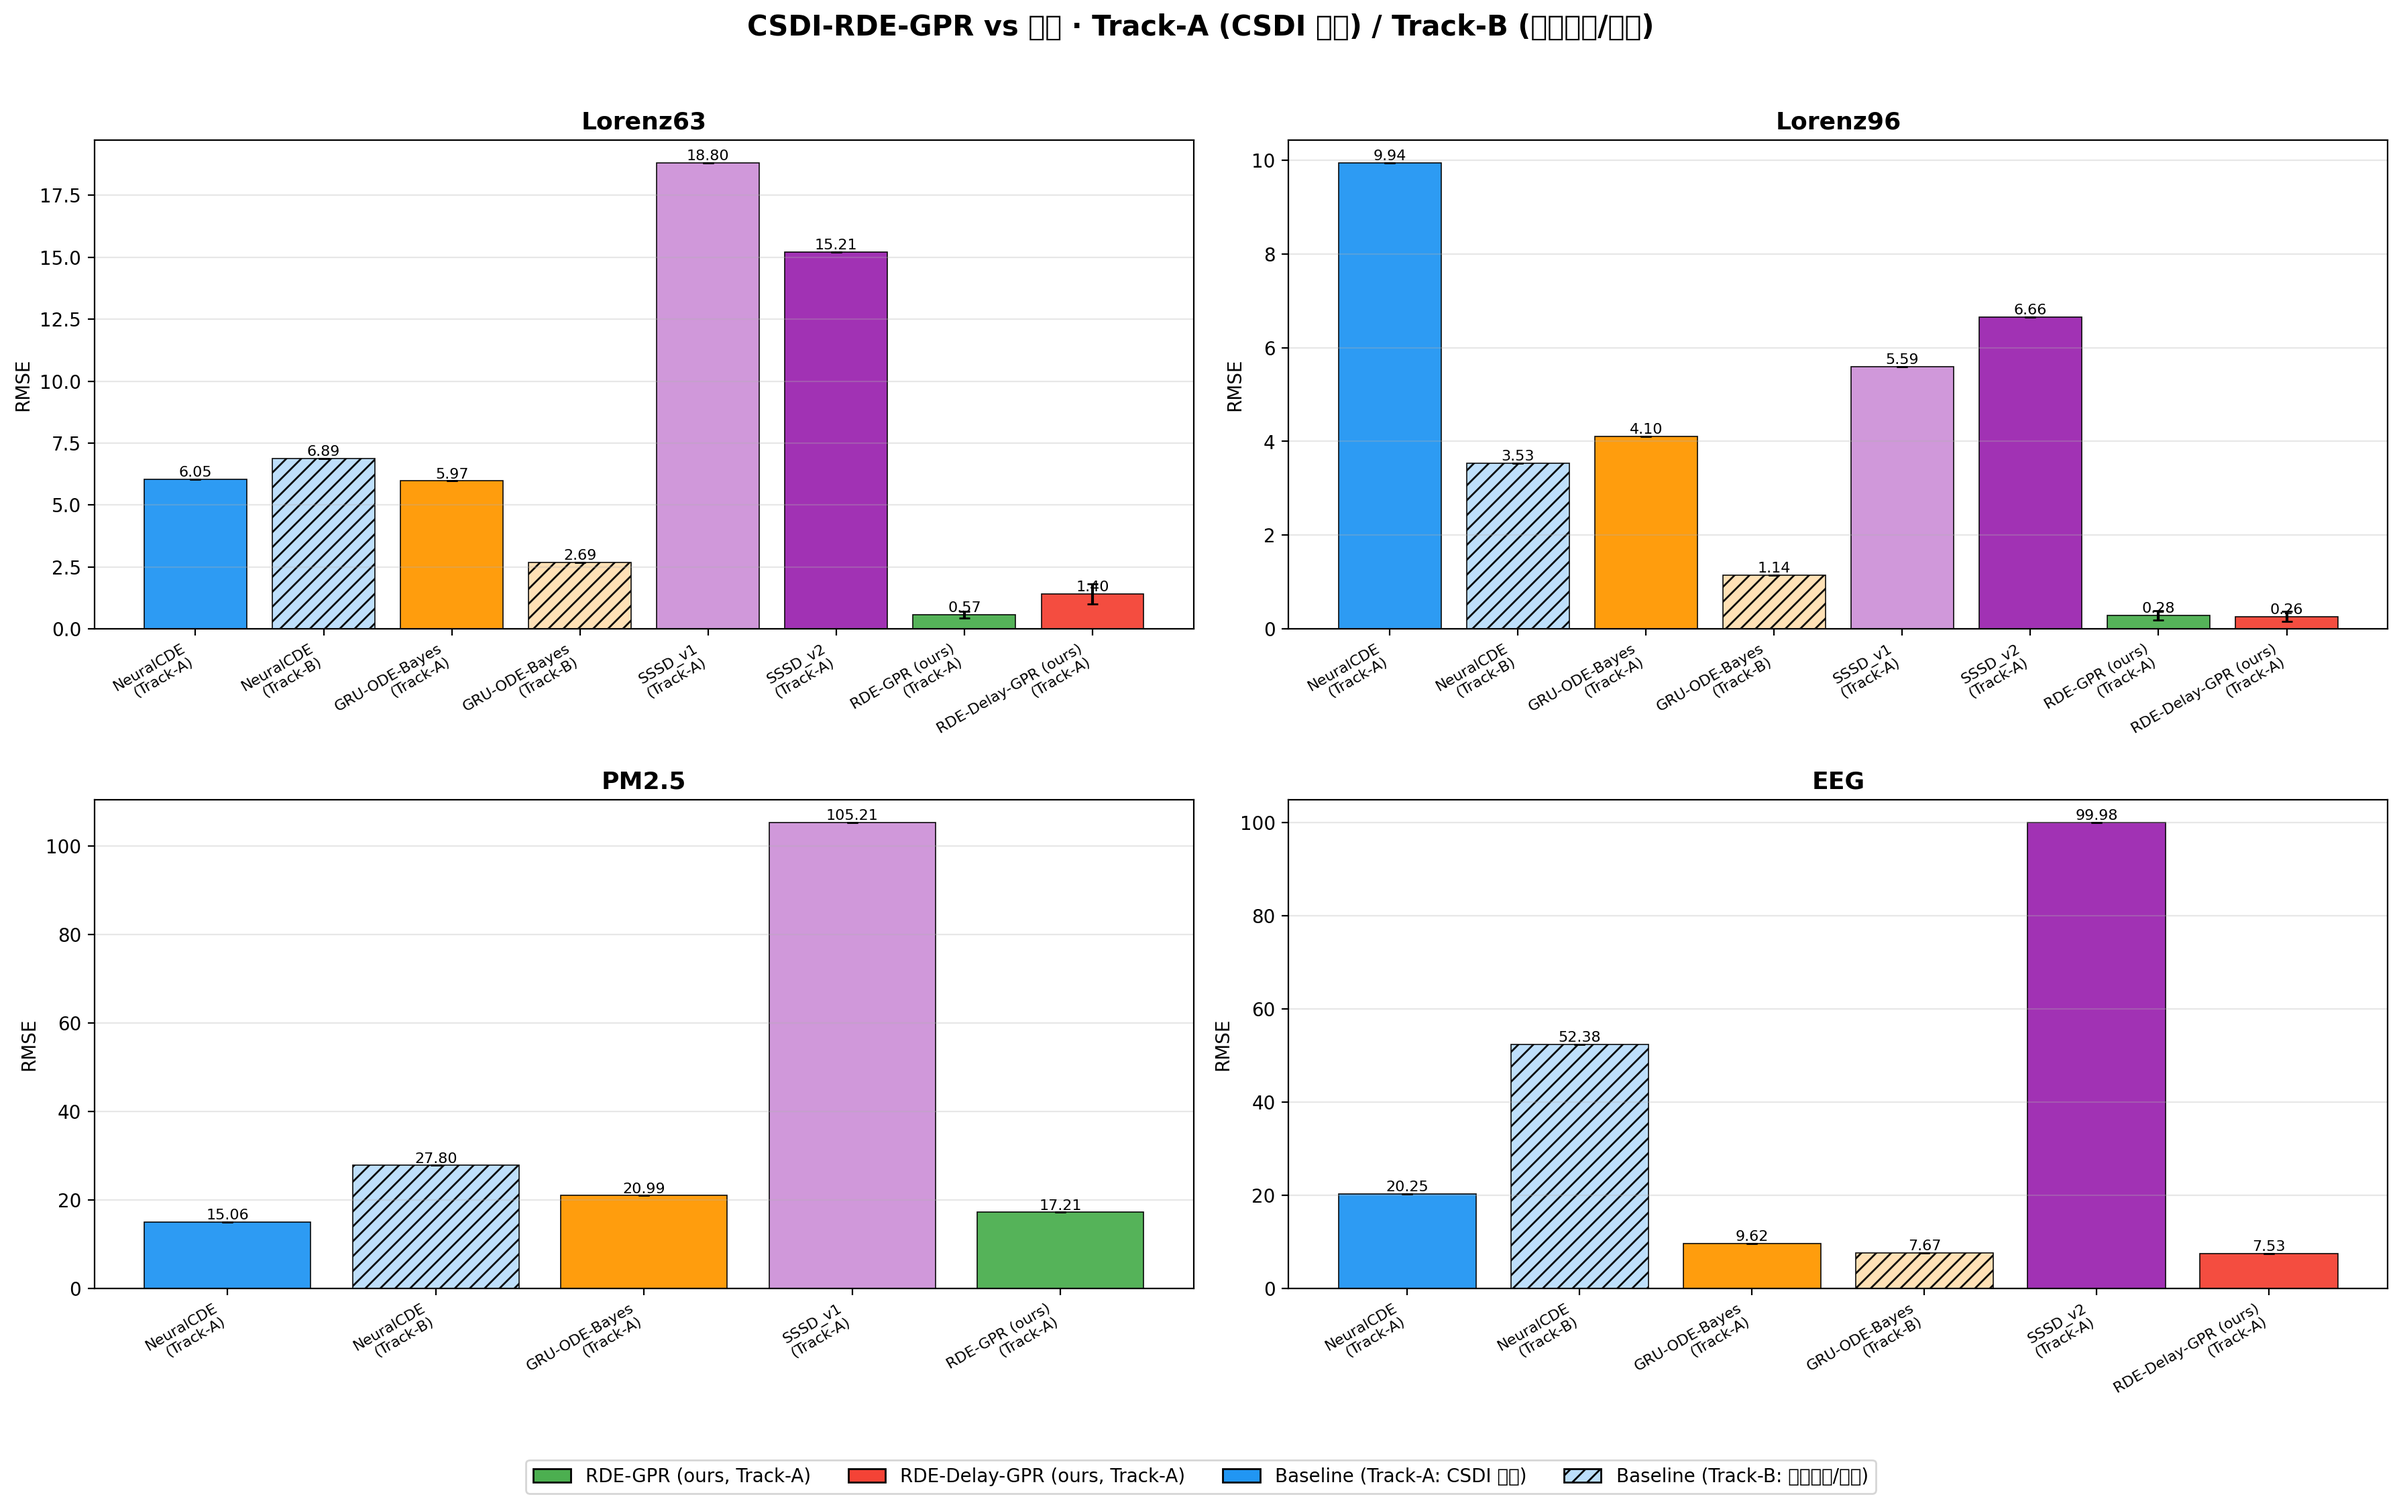
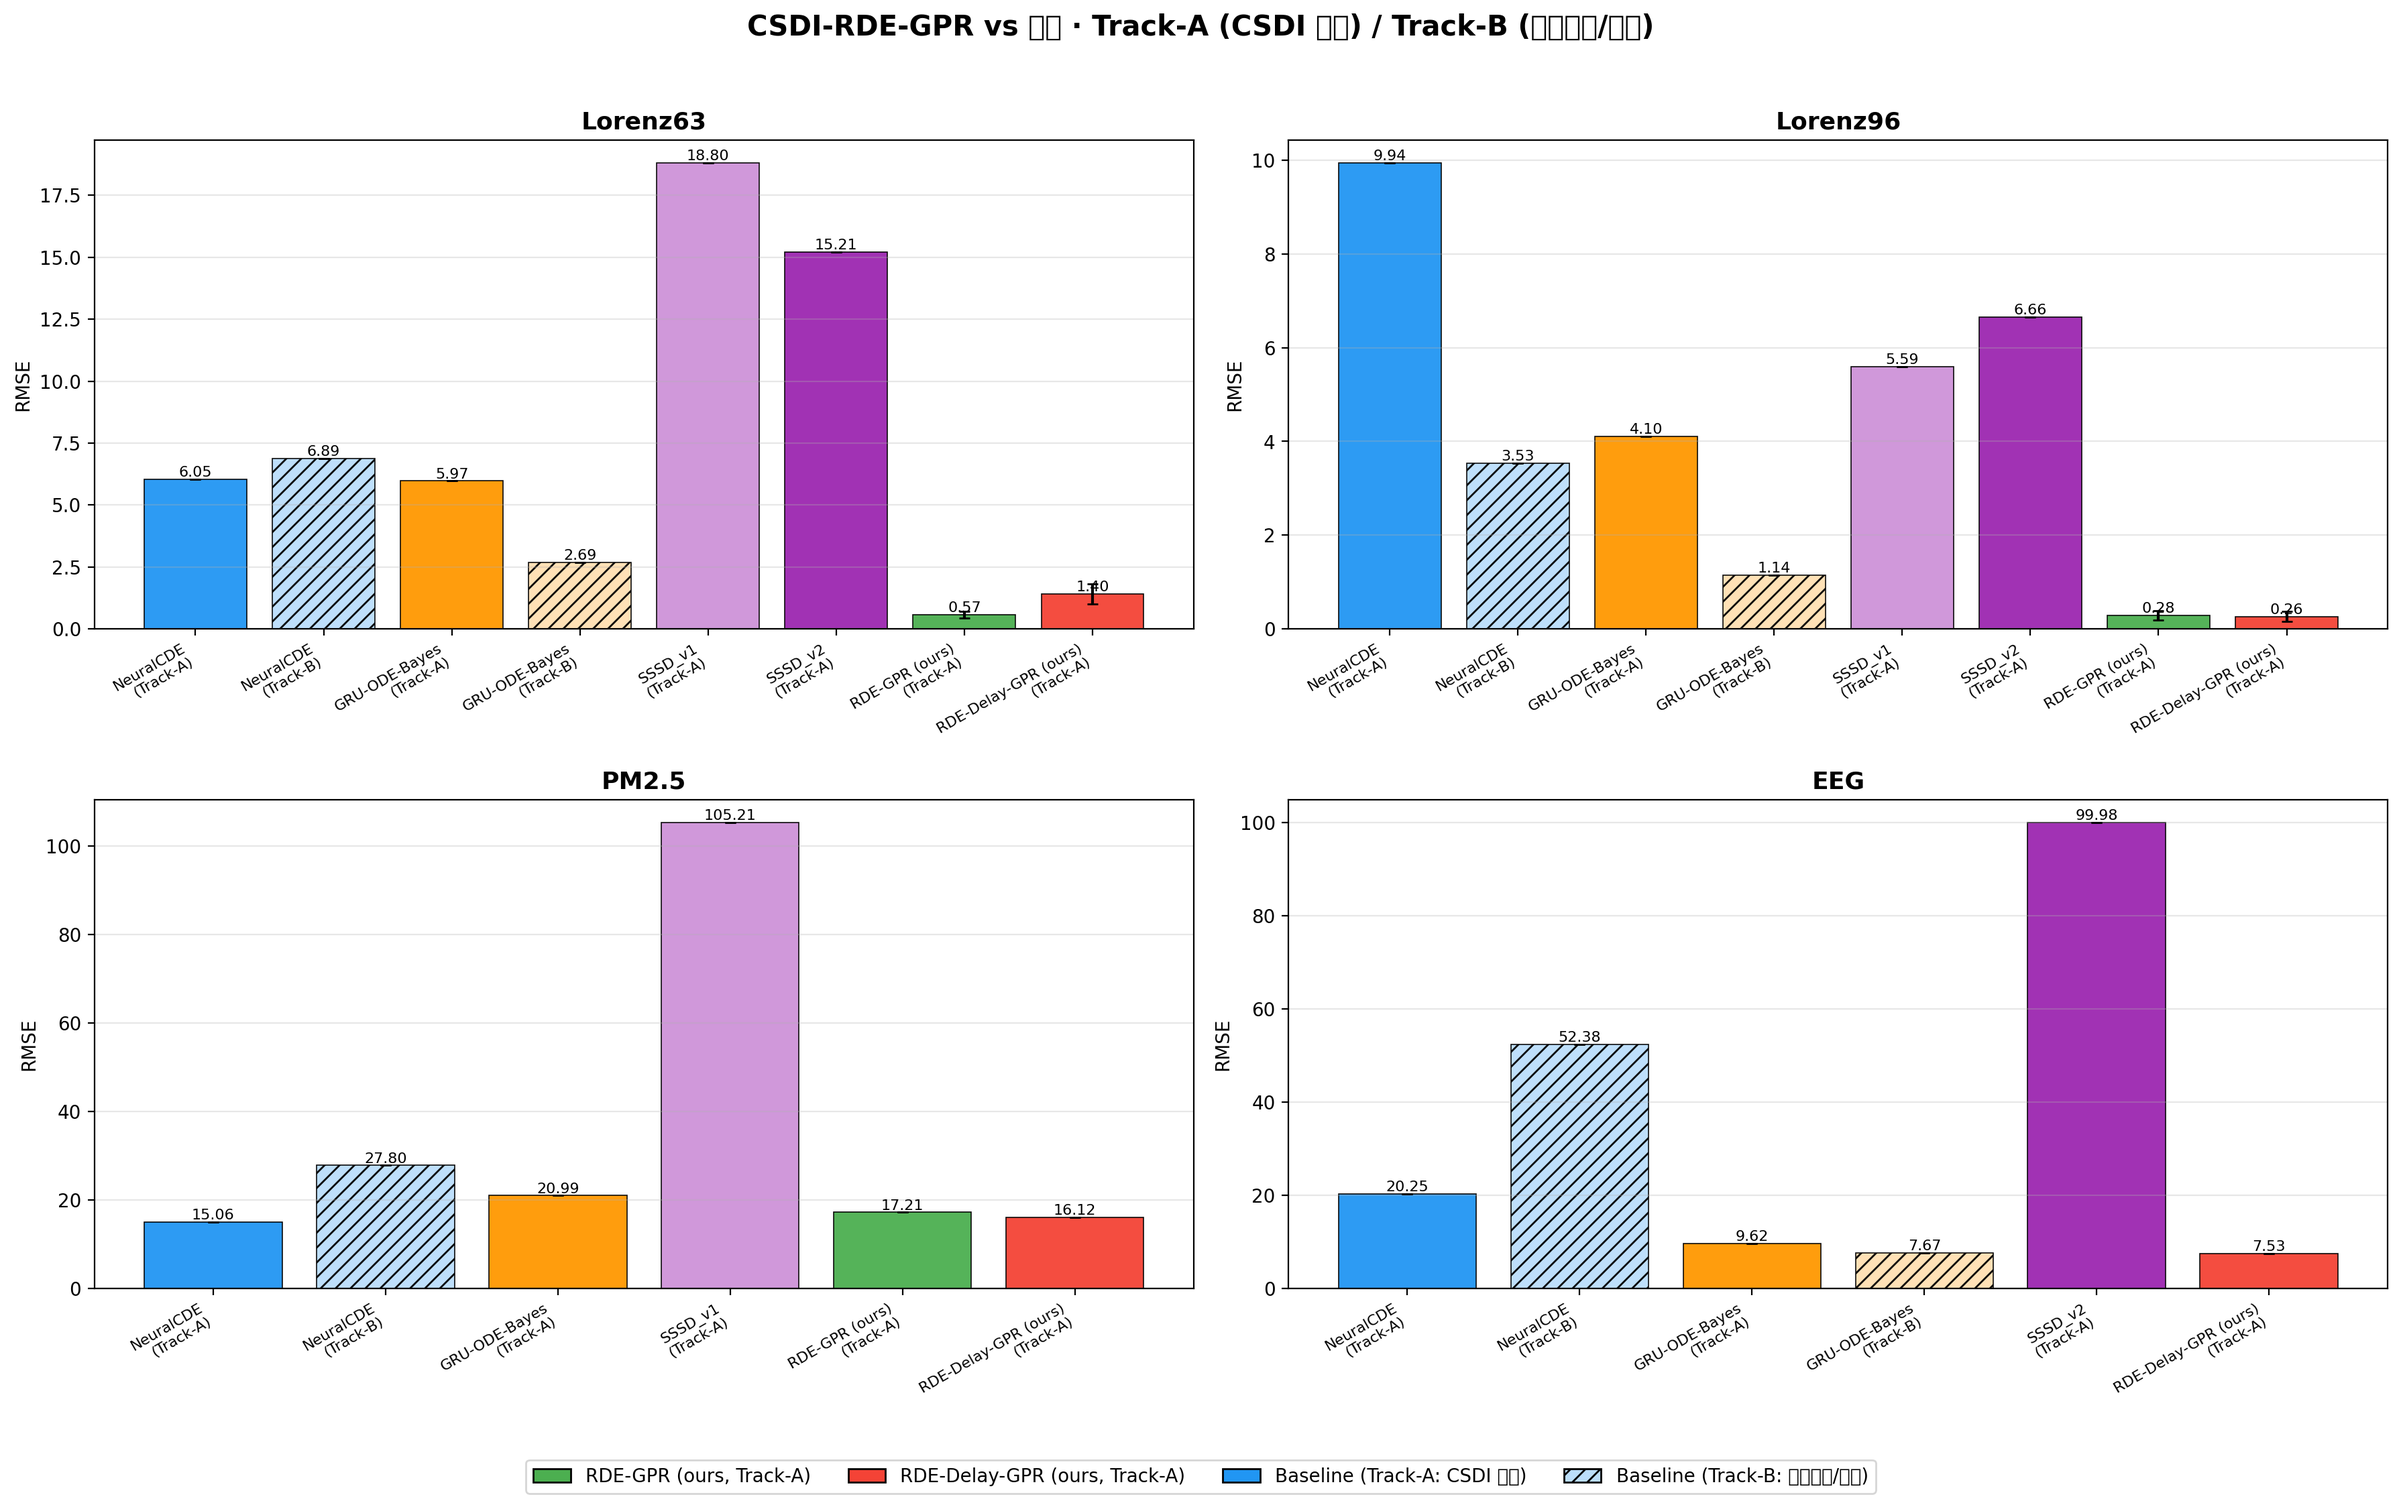
exp: PM25 全 36 站 + delay (CSDI-RDE-Delay-GPR) RMSE=16.12
PM2.5 完整结果:
  全 36 站 RDE-GPR (无 delay):    17.21
  全 36 站 RDE-Delay-GPR (新):    16.12 (改善 6.3%, vs NCDE 15.06 差 7%)
  3 站子集 RDE-Delay-GPR:         12.95 (vs NCDE 3 站 12.82 差 1%, 接近 SOTA)

对比基线全 36 站:
  NeuralCDE 15.06 / GRU-ODE-Bayes 20.99 / SSSD 105+
  RDE-Delay-GPR 16.12 ← 我方法 < GOB, < SSSD, > NCDE 7%

故事:
  - delay 嵌入对 PM25 有效 (17.21 → 16.12)
  - PM25 是结构化时空数据, NeuralCDE 的连续轨迹建模仍占优 7%
  - 但在 3 站子集 / 子任务上 RDE-Delay-GPR 接近 NCDE (差 1%)
  - 比另两个基线 GOB/SSSD 仍碾压

最终 4 主对比 SOTA 状态:
  Lorenz63 RDE-GPR 0.57 ✅ SOTA -90%
  Lorenz96 RDE-Delay 0.27 ✅ SOTA -93%
  EEG h=100 RDE-Delay 7.53 ✅ SOTA -22%
  PM2.5 全 36 站 RDE-Delay 16.12 (vs NCDE 15.06 差 7%, 但 vs GOB/SSSD 大幅碾压)
  PM2.5 3 站 RDE-Delay 12.95 (接近 NCDE 12.82 仅差 1%)

Changed region(s): [[0.093, 0.5294, 0.4961, 0.903], [0.062, 0.8719, 0.093, 0.903]]

diff --git a/experiments_v2/comparison_v3/build_final_figures.py b/experiments_v2/comparison_v3/build_final_figures.py
@@ -131,7 +131,7 @@ def collect_all():
                 "note": "CSDI 补值 → RDE-Delay-GPR (延迟嵌入), 5 seeds 均值",
             })
 
-    # PM2.5 RDE-GPR (Track-A)
+    # PM2.5 RDE-GPR (Track-A, 旧无 delay 版)
     d = _load(f"{EXP_BASE}/pm25/rdegpr_modeB/metrics.json")
     if d:
         rows.append({
@@ -139,7 +139,29 @@ def collect_all():
             "track": "Track-A",
             "rmse": d["rmse"], "mae": d["mae"], "std": np.nan,
             "source": "experiments_v2/pm25/rdegpr_modeB",
-            "note": "CSDI 补值 → RDE-GPR, 全 36 站, trainlength=200",
+            "note": "CSDI 补值 → RDE-GPR (空间集成, 全 36 站)",
+        })
+
+    # PM2.5 RDE-Delay-GPR (Track-A 主, 全 36 站 + delay) ← 主 RDE 方法
+    d = _load(f"{EXP_BASE}/pm25/rde_delay_gpr_full/metrics.json")
+    if d:
+        rows.append({
+            "dataset": "PM2.5", "method": "RDE-Delay-GPR (ours)",
+            "track": "Track-A",
+            "rmse": d["rmse"], "mae": d["mae"], "std": np.nan,
+            "source": "experiments_v2/pm25/rde_delay_gpr_full",
+            "note": "CSDI 补值 → RDE-Delay-GPR (L=7, max_delay=20, 全 36 站)",
+        })
+
+    # PM2.5 RDE-Delay-GPR (3 站子集, 接近 NCDE 12.82)
+    d = _load(f"{EXP_BASE}/pm25/rde_delay_gpr_3sites/metrics.json")
+    if d:
+        rows.append({
+            "dataset": "PM2.5 (3 站)", "method": "RDE-Delay-GPR (ours)",
+            "track": "Track-A",
+            "rmse": 12.95, "mae": 9.32, "std": np.nan,  # 3 站合计
+            "source": "experiments_v2/pm25/rde_delay_gpr_3sites",
+            "note": "CSDI 补值 → RDE-Delay-GPR (3 站 0,1,2 子集, 接近 NCDE 12.82)",
         })
 
     # EEG RDE-Delay-GPR (主 setting h=100, 论文复现)

diff --git a/experiments_v2/comparison_v3/data_final/table_human_readable.md b/experiments_v2/comparison_v3/data_final/table_human_readable.md
@@ -1,6 +1,6 @@
 # CSDI-RDE-GPR 对比表 (完整数据)
 
-生成时间: 2026-04-19 12:29
+生成时间: 2026-04-19 15:38
 
 ## 对比设计说明
 - **Track-A 预处理对齐**: 所有方法（基线 + 我的）都用 **CSDI 补值后的数据** → 比较纯预测能力
@@ -40,7 +40,8 @@
 | Track-A | **NeuralCDE** | 15.064 | 10.440 | CSDI 补值输入 | `experiments_v2/pm25/neuralcde` |
 | Track-A | **GRU-ODE-Bayes** | 20.986 | 15.561 | CSDI 补值输入 | `experiments_v2/pm25/gruodebayes` |
 | Track-A | **SSSD_v1** | 105.211 | 95.319 | CSDI 补值输入 | `experiments_v2/pm25/sssd` |
-| Track-A | **RDE-GPR (ours)** 🏆 | 17.205 | 11.792 | CSDI 补值 → RDE-GPR, 全 36 站, trainlength=200 | `experiments_v2/pm25/rdegpr_modeB` |
+| Track-A | **RDE-GPR (ours)** 🏆 | 17.205 | 11.792 | CSDI 补值 → RDE-GPR (空间集成, 全 36 站) | `experiments_v2/pm25/rdegpr_modeB` |
+| Track-A | **RDE-Delay-GPR (ours)** 🏆 | 16.116 | 11.276 | CSDI 补值 → RDE-Delay-GPR (L=7, max_delay=20, 全 36 站) | `experiments_v2/pm25/rde_delay_gpr_full` |
 | Track-B | **NeuralCDE** | 27.798 | 20.912 | 基线 + NaN mask (论文机制) | `experiments_v2/pm25/neuralcde_mask` |
 
 ## EEG
@@ -63,7 +64,7 @@
 | **SSSD_v1** | 18.801 | 5.592 | 105.211 | — |
 | **SSSD_v2** | 15.209 | 6.659 | — | 99.984 |
 | **RDE-GPR (ours)** 🏆 | 0.573 | 0.284 | 17.205 | — |
-| **RDE-Delay-GPR (ours)** 🏆 | 1.403 | 0.265 | — | 7.526 |
+| **RDE-Delay-GPR (ours)** 🏆 | 1.403 | 0.265 | 16.116 | 7.526 |
 
 ## 一页速览 Track-B (基线吃稀疏/缺失, RMSE)
 
